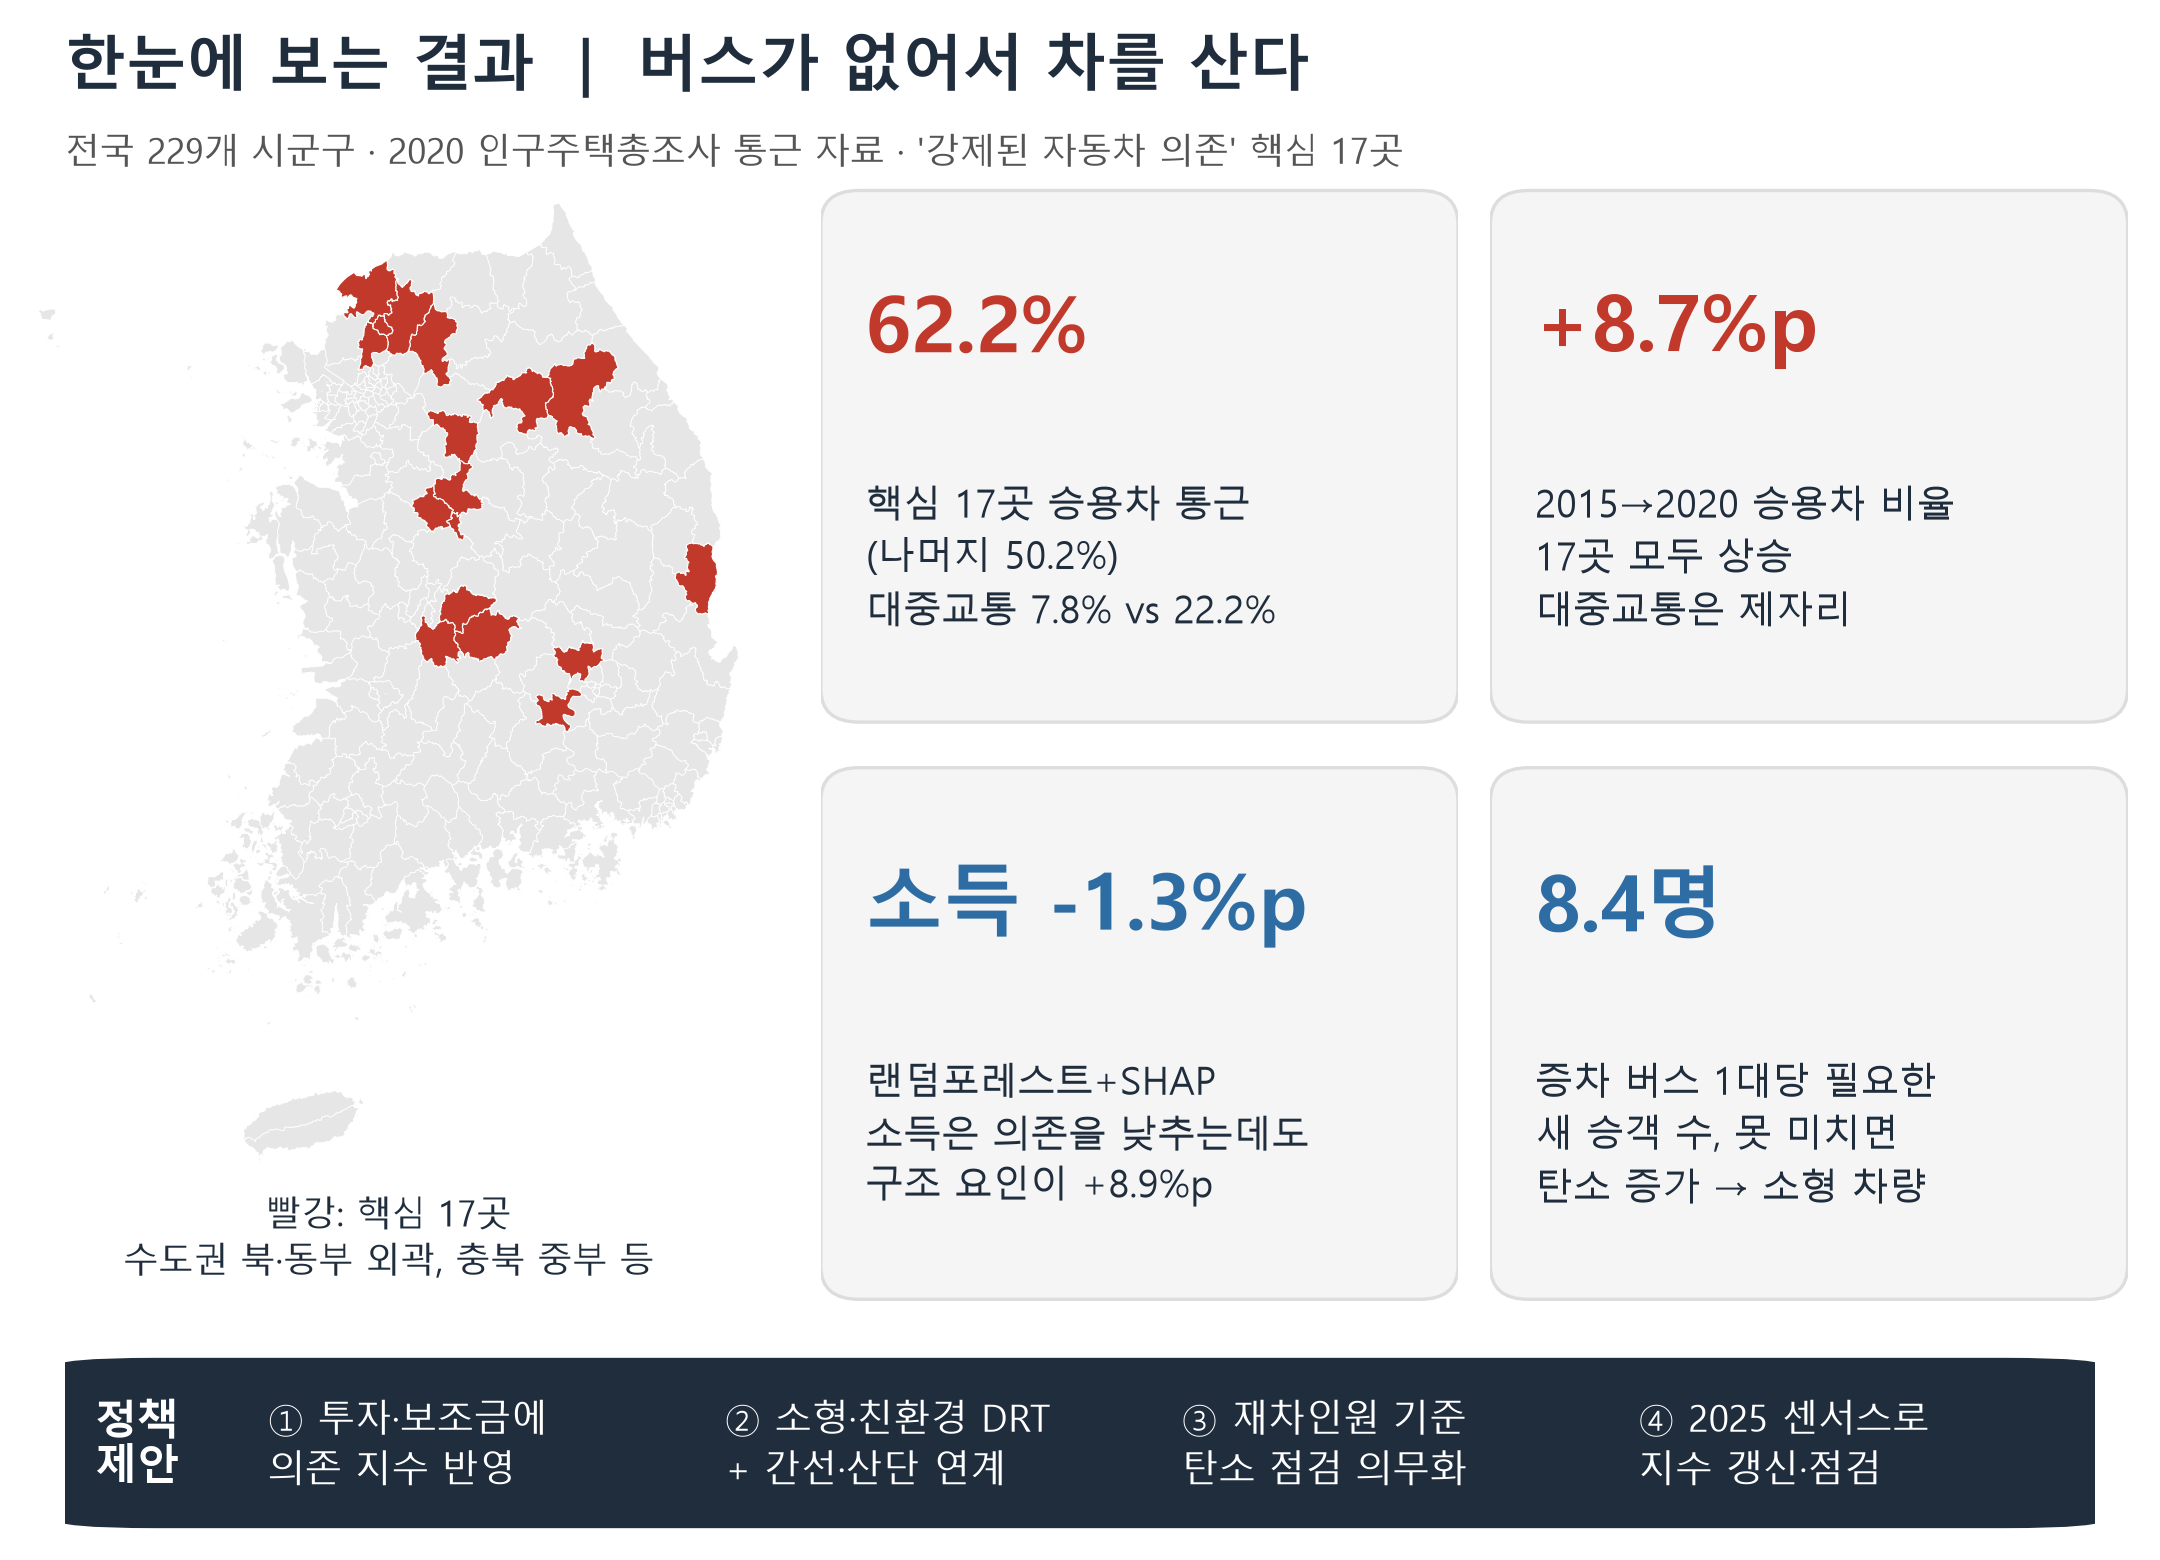
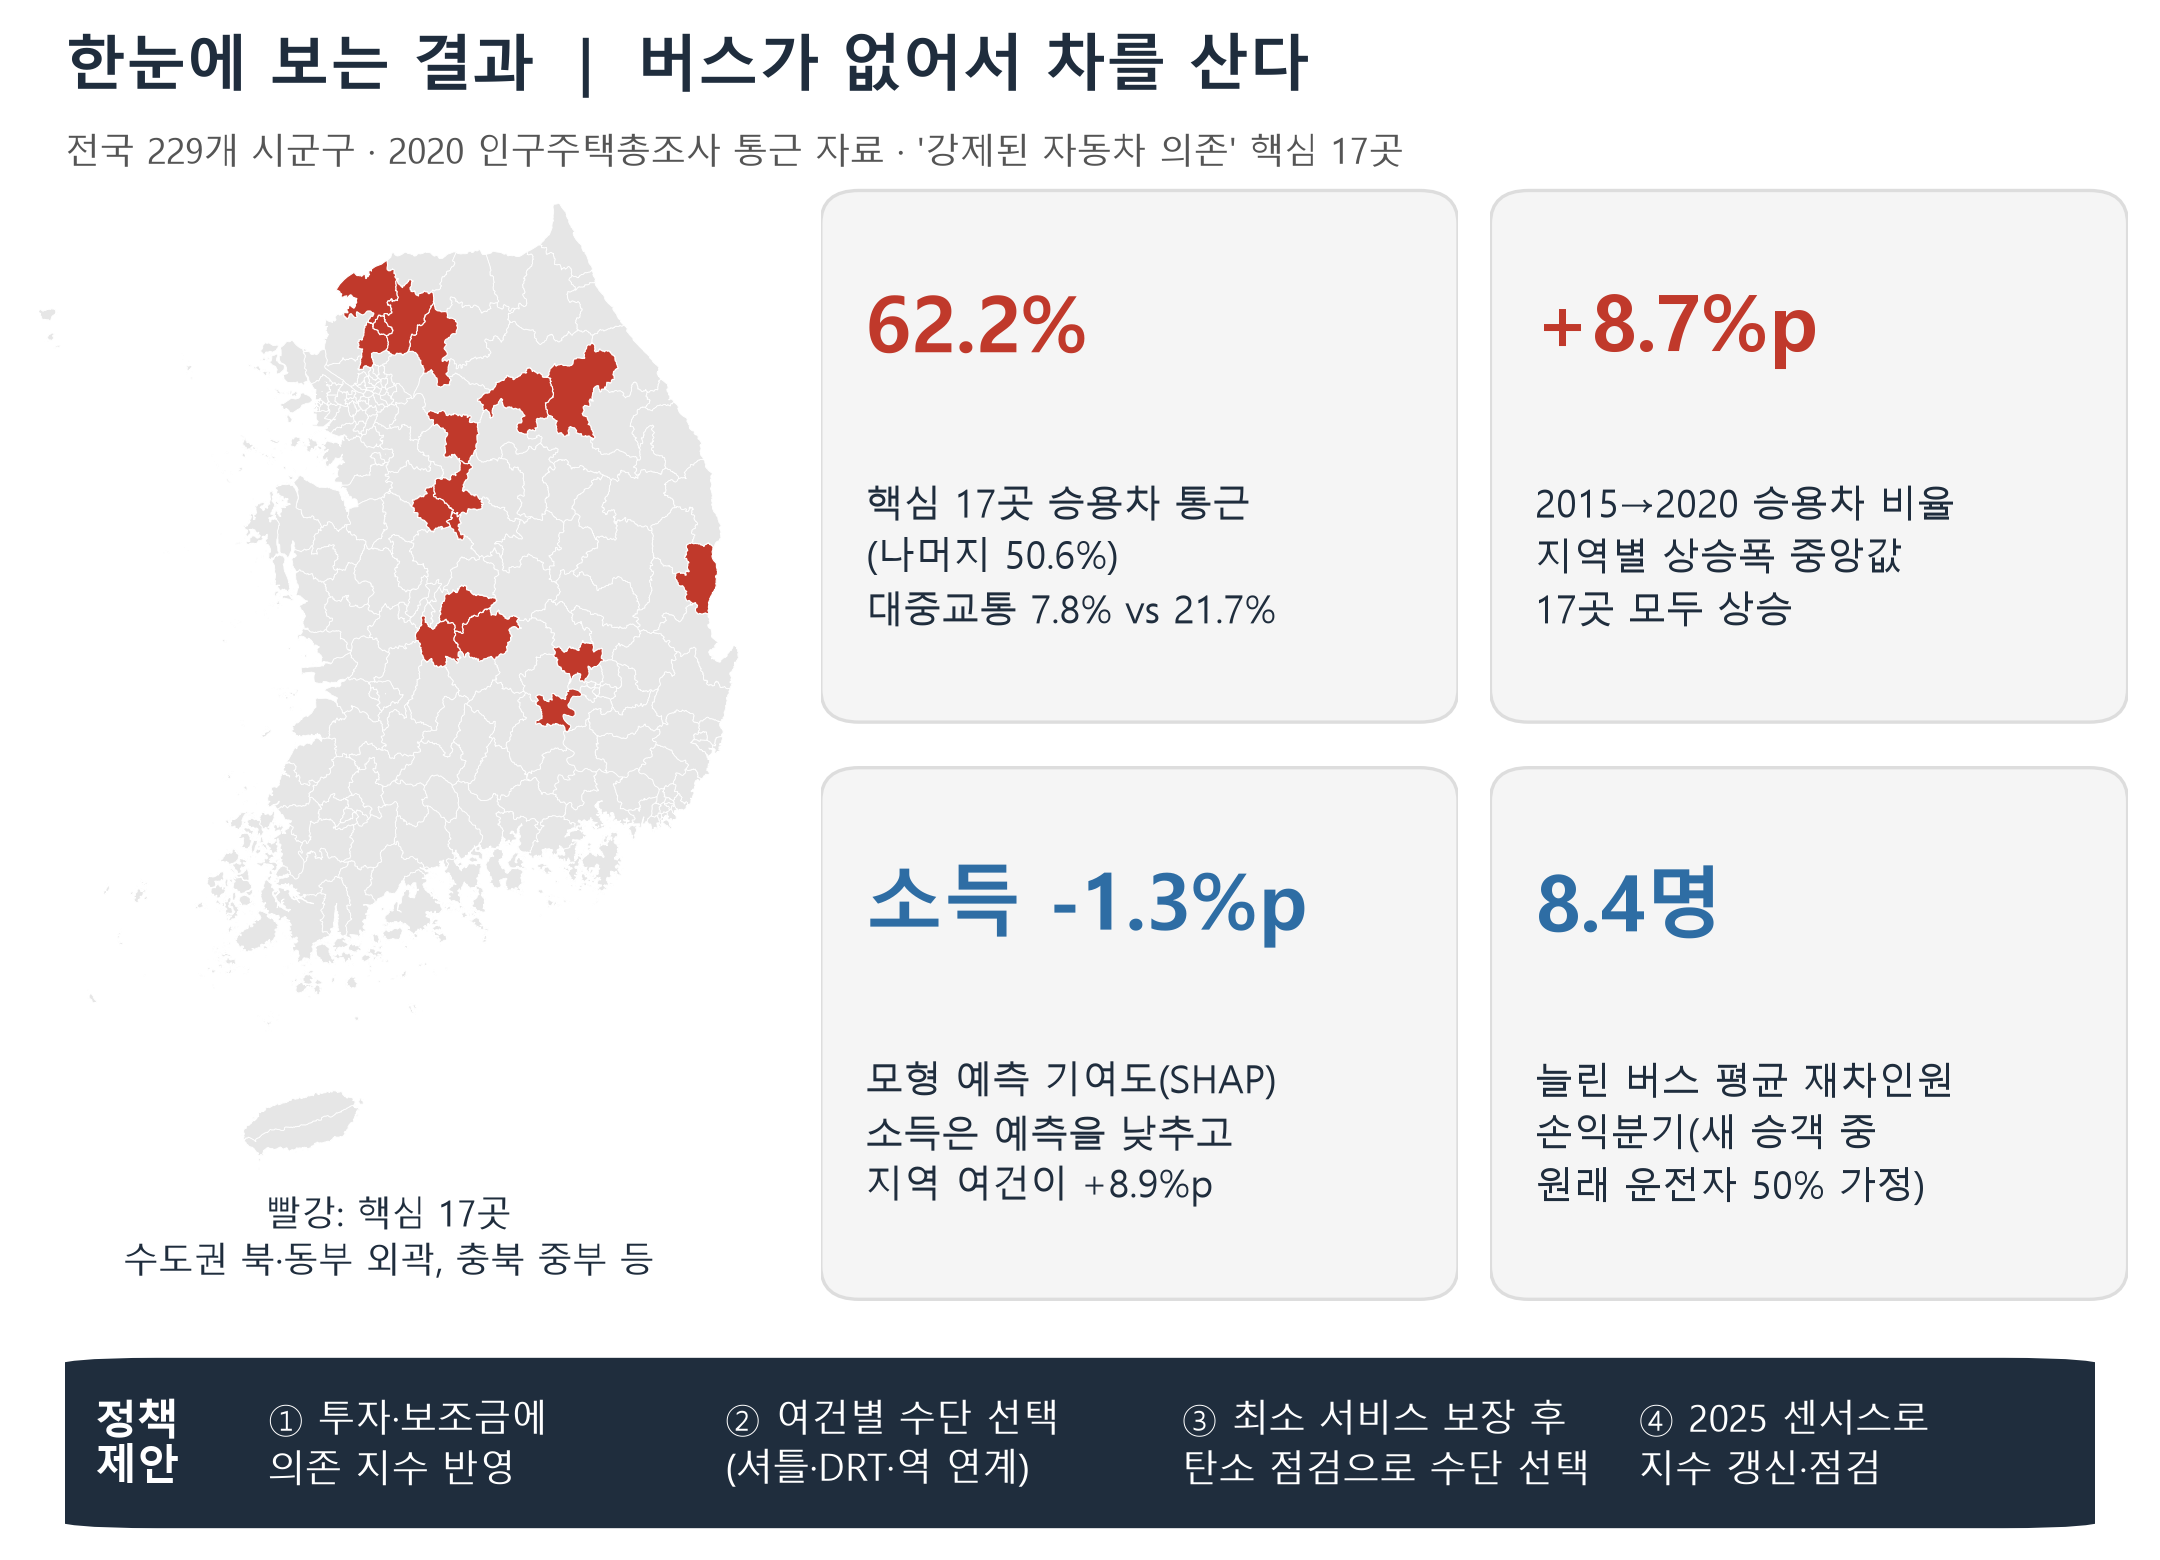
Add files via upload

diff --git a/code/08_infographic.py b/code/08_infographic.py
@@ -39,7 +39,7 @@ def main():
     trend = pd.read_csv(TAB / "trend_2015_2020.csv", index_col=0)
     shap_core = pd.read_csv(TAB / "ml_shap_core.csv", index_col=0)["mean_shap_pp"]
 
-    core, rest = comp.loc["핵심"], comp.loc["나머지"]
+    core, rest = comp.loc["핵심"], comp.loc["나머지(212)"]
     tr = trend.loc["핵심 지역"]
     inc = shap_core.filter(like="근로소득").iloc[0]
     struct = shap_core[shap_core > 0].sum()
@@ -64,11 +64,11 @@ def main():
          f"핵심 17곳 승용차 통근\n(나머지 {rest['승용차비율']*100:.1f}%)\n"
          f"대중교통 {core['대중교통비율']*100:.1f}% vs {rest['대중교통비율']*100:.1f}%", RED)
     card(fig, x0 + w + 0.015, 0.53, w, h, f"+{tr['승용차_변화_%p(중앙값)']:.1f}%p",
-         "2015→2020 승용차 비율\n17곳 모두 상승\n대중교통은 제자리", RED)
+         "2015→2020 승용차 비율\n지역별 상승폭 중앙값\n17곳 모두 상승", RED)
     card(fig, x0, 0.16, w, h, f"소득 {inc:+.1f}%p",
-         f"랜덤포레스트+SHAP\n소득은 의존을 낮추는데도\n구조 요인이 +{struct:.1f}%p", BLUE)
+         f"모형 예측 기여도(SHAP)\n소득은 예측을 낮추고\n지역 여건이 +{struct:.1f}%p", BLUE)
     card(fig, x0 + w + 0.015, 0.16, w, h, "8.4명",
-         "증차 버스 1대당 필요한\n새 승객 수, 못 미치면\n탄소 증가 → 소형 차량", BLUE)
+         "늘린 버스 평균 재차인원\n손익분기(새 승객 중\n원래 운전자 50% 가정)", BLUE)
 
     ax = fig.add_axes([0.03, 0.015, 0.94, 0.12])
     ax.set_axis_off()
@@ -76,8 +76,8 @@ def main():
                                 fc=DARK, ec="none", transform=ax.transAxes))
     ax.text(0.015, 0.5, "정책\n제안", fontsize=7.5, fontweight="bold", color="white", va="center",
             transform=ax.transAxes)
-    props = ["① 투자·보조금에\n의존 지수 반영", "② 소형·친환경 DRT\n+ 간선·산단 연계",
-             "③ 재차인원 기준\n탄소 점검 의무화", "④ 2025 센서스로\n지수 갱신·점검"]
+    props = ["① 투자·보조금에\n의존 지수 반영", "② 여건별 수단 선택\n(셔틀·DRT·역 연계)",
+             "③ 최소 서비스 보장 후\n탄소 점검으로 수단 선택", "④ 2025 센서스로\n지수 갱신·점검"]
     for i, t in enumerate(props):
         ax.text(0.10 + i * 0.225, 0.5, t, fontsize=6.6, color="white", va="center", transform=ax.transAxes,
                 linespacing=1.35)

diff --git a/code/03_carbon.py b/code/03_carbon.py
@@ -85,7 +85,7 @@ def main():
                "승용차통근자_대비_전환율", "승용차_감축_t", "버스_추가배출_t", "순감축_t"]]
           .round(3).to_string(index=False))
 
-    # 현재 상태 비교표 (핵심 / 의심 / 나머지)
+    # 현재 상태 비교표 (핵심 / 의심 / 나머지 194 / 나머지 212)
     km = d["time_car"] / 60 * SPEED
     d["t_per_driver"] = 2 * WORKDAYS * km * EF_CAR / 1e6
     d["group"] = "나머지"
@@ -106,6 +106,8 @@ def main():
             "전국_승용차통근배출_비중": (x["t_per_driver"] * x["n_car"]).sum() / (d["t_per_driver"] * d["n_car"]).sum(),
         })
     comp = d.groupby("group").apply(summarize, include_groups=False)
+    # 보고서 비교표 기준: 핵심 17곳 vs 나머지 212곳(사분면 의심 지역 포함)
+    comp.loc["나머지(212)"] = summarize(d[~d["core"]])
     print("\n집단 비교")
     print(comp.round(3).to_string())
     comp.to_csv(TAB / "target_vs_rest.csv", encoding="utf-8-sig")

diff --git a/code/10_print_figures.py b/code/10_print_figures.py
@@ -83,7 +83,7 @@ def fig2():
     ax.barh(core.index, core.values, color=[RED if v > 0 else BLUE for v in core.values])
     ax.axvline(0, color="grey", lw=0.5)
     ax.set_title("핵심 17곳 기여 방향")
-    ax.set_xlabel("평균 SHAP (%p, +는 의존을 올림)")
+    ax.set_xlabel("평균 SHAP (%p, +는 예측값을 올림)")
     for a in axes:
         a.spines[["top", "right"]].set_visible(False)
     fig.tight_layout(pad=0.3, w_pad=0.8)
@@ -103,7 +103,7 @@ def fig3():
     ax.text(0.5, 1040, "이 영역의 차량은 배출 증가", color="#7f2a1f", fontsize=5.6)
     ax.set_xlim(0, 16)
     ax.set_ylim(0, 1200)
-    ax.set_xlabel("늘린 차량 1대당 새 승객 (명)")
+    ax.set_xlabel("늘린 차량의 평균 재차인원 (새 승객, 명)")
     ax.set_ylabel("차량 배출 (gCO₂/km)")
     ax.legend(loc="center right", frameon=False, fontsize=5.2, bbox_to_anchor=(1.0, 0.42))
     ax.spines[["top", "right"]].set_visible(False)
